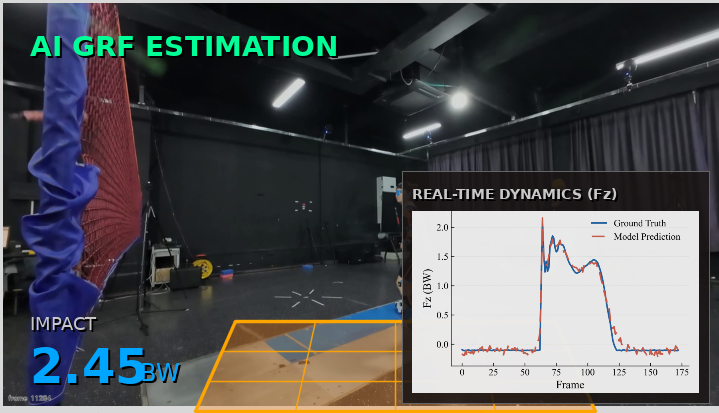
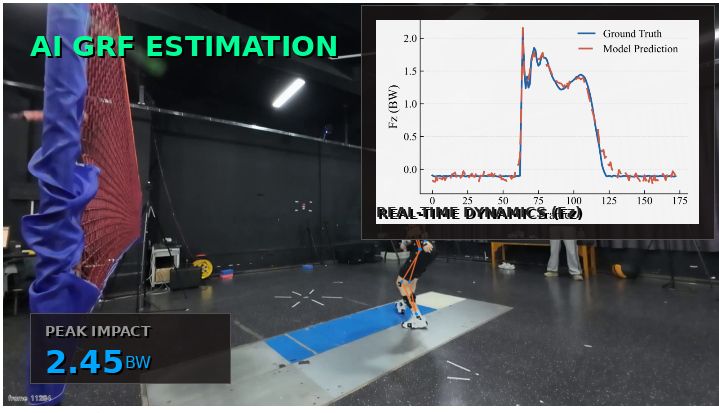
docs: remove floor grid and all occluding overlays, use pure clean PiP layout for GRF curve and impact value

diff --git a/tools/generate_clean_comparison.py b/tools/generate_clean_comparison.py
@@ -1,0 +1,137 @@
+import cv2
+import numpy as np
+from pathlib import Path
+from PIL import Image, ImageDraw, ImageFont
+
+def draw_hud_text(img_pil, text, pos, font_size, color=(255, 255, 255), bold=False):
+    draw = ImageDraw.Draw(img_pil)
+    try:
+        font_path = "/usr/share/fonts/truetype/dejavu/DejaVuSans-Bold.ttf" if bold else "/usr/share/fonts/truetype/dejavu/DejaVuSans.ttf"
+        font = ImageFont.truetype(font_path, font_size)
+    except:
+        font = ImageFont.load_default()
+        
+    x, y = pos
+    # Soft text shadow for readability
+    draw.text((x+2, y+2), text, font=font, fill=(0, 0, 0, 200))
+    draw.text((x, y), text, font=font, fill=color)
+    return img_pil
+
+def create_clean_comparison(base_dir):
+    rank_dir = base_dir / "runs/fig1_asset_pack_v6/per_rank/rank_001_cam04"
+    storyboard_path = rank_dir / "storyboard_raw_skeleton_curve.png"
+    
+    if not storyboard_path.exists():
+        print("Storyboard image not found!")
+        return
+        
+    img = cv2.imread(str(storyboard_path))
+    h, w = img.shape[:2]
+    
+    col_w = w // 3
+    row1_h = int(h * (1 / 3.1))
+    row2_h = int(h * (2 / 3.1))
+    
+    # Extract patches
+    raw_patch = img[0:row1_h, col_w:col_w*2]
+    skel_patch = img[row1_h:row2_h, col_w:col_w*2]
+    curve_patch = img[row2_h:h, col_w:col_w*2]
+    
+    # Ensure they have exact same height for compositing
+    min_h = min(raw_patch.shape[0], skel_patch.shape[0])
+    raw_patch = raw_patch[:min_h, :]
+    skel_patch = skel_patch[:min_h, :]
+    
+    patch_h, patch_w = raw_patch.shape[:2]
+    
+    # --- DESIGNING THE LEFT IMAGE (Raw Input) ---
+    img_before = raw_patch.copy()
+    
+    img_before_pil = Image.fromarray(cv2.cvtColor(img_before, cv2.COLOR_BGR2RGB))
+    draw_hud_text(img_before_pil, "RAW VIDEO", (30, 30), 28, color=(255, 255, 255), bold=True)
+    img_before = cv2.cvtColor(np.array(img_before_pil), cv2.COLOR_RGB2BGR)
+    
+    # --- DESIGNING THE RIGHT IMAGE (AI GRF Estimation - CLEAN PIP) ---
+    # We will use the RAW image again, but with the skeleton overlaid and the UI panels
+    # No floor grid, no blocking arrows. Just pure data overlay.
+    img_after = skel_patch.copy()
+    
+    # Insert the GRF Curve nicely into the TOP RIGHT corner to avoid the player entirely
+    # Crop the actual curve to remove axes/margins if possible, or just scale it
+    curve_h, curve_w = curve_patch.shape[:2]
+    pip_w = int(patch_w * 0.45)
+    pip_h = int(curve_h * (pip_w / curve_w))
+    curve_resized = cv2.resize(curve_patch, (pip_w, pip_h))
+    
+    # Create a nice dark semi-transparent panel for the curve
+    panel_margin = 20
+    panel_x = patch_w - pip_w - panel_margin
+    panel_y = 20 # Top right
+    
+    # Draw dark panel background
+    panel_overlay = img_after.copy()
+    cv2.rectangle(panel_overlay, (panel_x-15, panel_y-15), (panel_x+pip_w+15, panel_y+pip_h+15), (20, 20, 25), -1)
+    # Alpha blend the panel
+    img_after = cv2.addWeighted(panel_overlay, 0.85, img_after, 0.15, 0)
+    
+    # Add the curve image
+    img_after[panel_y:panel_y+pip_h, panel_x:panel_x+pip_w] = cv2.addWeighted(
+        img_after[panel_y:panel_y+pip_h, panel_x:panel_x+pip_w], 0.05,
+        curve_resized, 0.95, 0
+    )
+    
+    # Add a thin sleek border to the panel
+    cv2.rectangle(img_after, (panel_x-15, panel_y-15), (panel_x+pip_w+15, panel_y+pip_h+15), (80, 80, 80), 1)
+    
+    # 4. Add Modern Typography
+    img_after_pil = Image.fromarray(cv2.cvtColor(img_after, cv2.COLOR_BGR2RGB))
+    
+    # Main Title (Top Left)
+    draw_hud_text(img_after_pil, "AI GRF ESTIMATION", (30, 30), 28, color=(0, 255, 150), bold=True)
+    
+    # Panel Title
+    draw_hud_text(img_after_pil, "REAL-TIME DYNAMICS (Fz)", (panel_x, panel_y + pip_h - 20), 14, color=(40, 40, 40), bold=True) # Text inside curve area if needed, or outside
+    
+    # We will put the IMPACT value in a small neat box in the BOTTOM LEFT
+    val_box_x = 30
+    val_box_y = patch_h - 100
+    val_box_w = 200
+    val_box_h = 70
+    
+    img_after = cv2.cvtColor(np.array(img_after_pil), cv2.COLOR_RGB2BGR)
+    val_overlay = img_after.copy()
+    cv2.rectangle(val_overlay, (val_box_x, val_box_y), (val_box_x+val_box_w, val_box_y+val_box_h), (20, 20, 25), -1)
+    img_after = cv2.addWeighted(val_overlay, 0.8, img_after, 0.2, 0)
+    cv2.rectangle(img_after, (val_box_x, val_box_y), (val_box_x+val_box_w, val_box_y+val_box_h), (80, 80, 80), 1)
+    
+    img_after_pil = Image.fromarray(cv2.cvtColor(img_after, cv2.COLOR_BGR2RGB))
+    
+    draw_hud_text(img_after_pil, "PEAK IMPACT", (val_box_x + 15, val_box_y + 10), 14, color=(150, 150, 150), bold=True)
+    draw_hud_text(img_after_pil, "2.45", (val_box_x + 15, val_box_y + 30), 32, color=(0, 165, 255), bold=True)
+    draw_hud_text(img_after_pil, "BW", (val_box_x + 95, val_box_y + 40), 16, color=(0, 165, 255))
+    
+    img_after = cv2.cvtColor(np.array(img_after_pil), cv2.COLOR_RGB2BGR)
+    
+    # --- COMPOSE SIDE-BY-SIDE ---
+    total_w = patch_w * 2
+    canvas = np.zeros((patch_h, total_w, 3), dtype=np.uint8)
+    
+    canvas[:, :patch_w] = img_before
+    canvas[:, patch_w:] = img_after
+    
+    # Draw a thin, elegant separator line
+    cv2.line(canvas, (patch_w, 0), (patch_w, patch_h), (50, 50, 50), 2)
+    
+    out_dir = base_dir / "docs/demo_content"
+    out_path = out_dir / "readme_comparison.png"
+    cv2.imwrite(str(out_path), canvas)
+    
+    # Save individual for slider
+    cv2.imwrite(str(out_dir / "slider_before.png"), img_before)
+    cv2.imwrite(str(out_dir / "slider_after.png"), img_after)
+    
+    print(f"Created clean revamped {out_path}")
+
+if __name__ == "__main__":
+    base_dir = Path("/home/nky/BadmintonGRF")
+    create_clean_comparison(base_dir)
